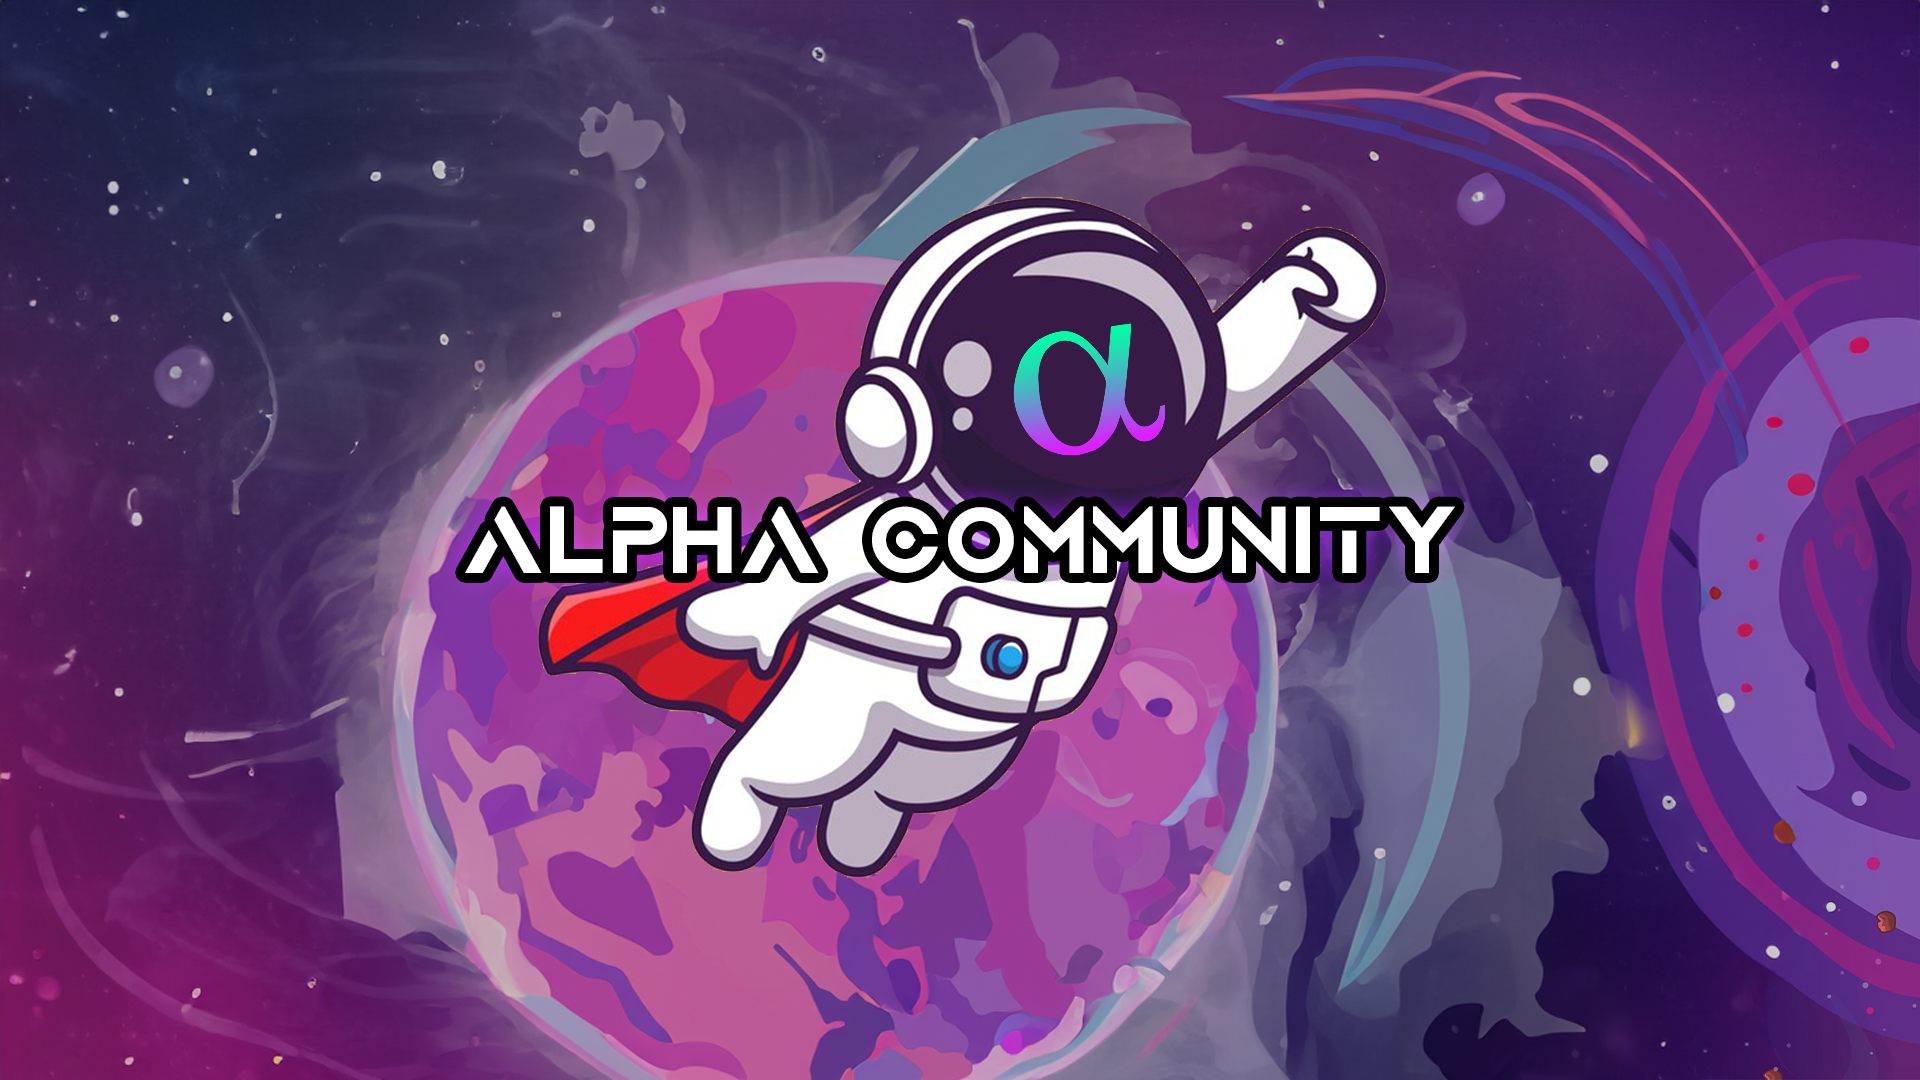
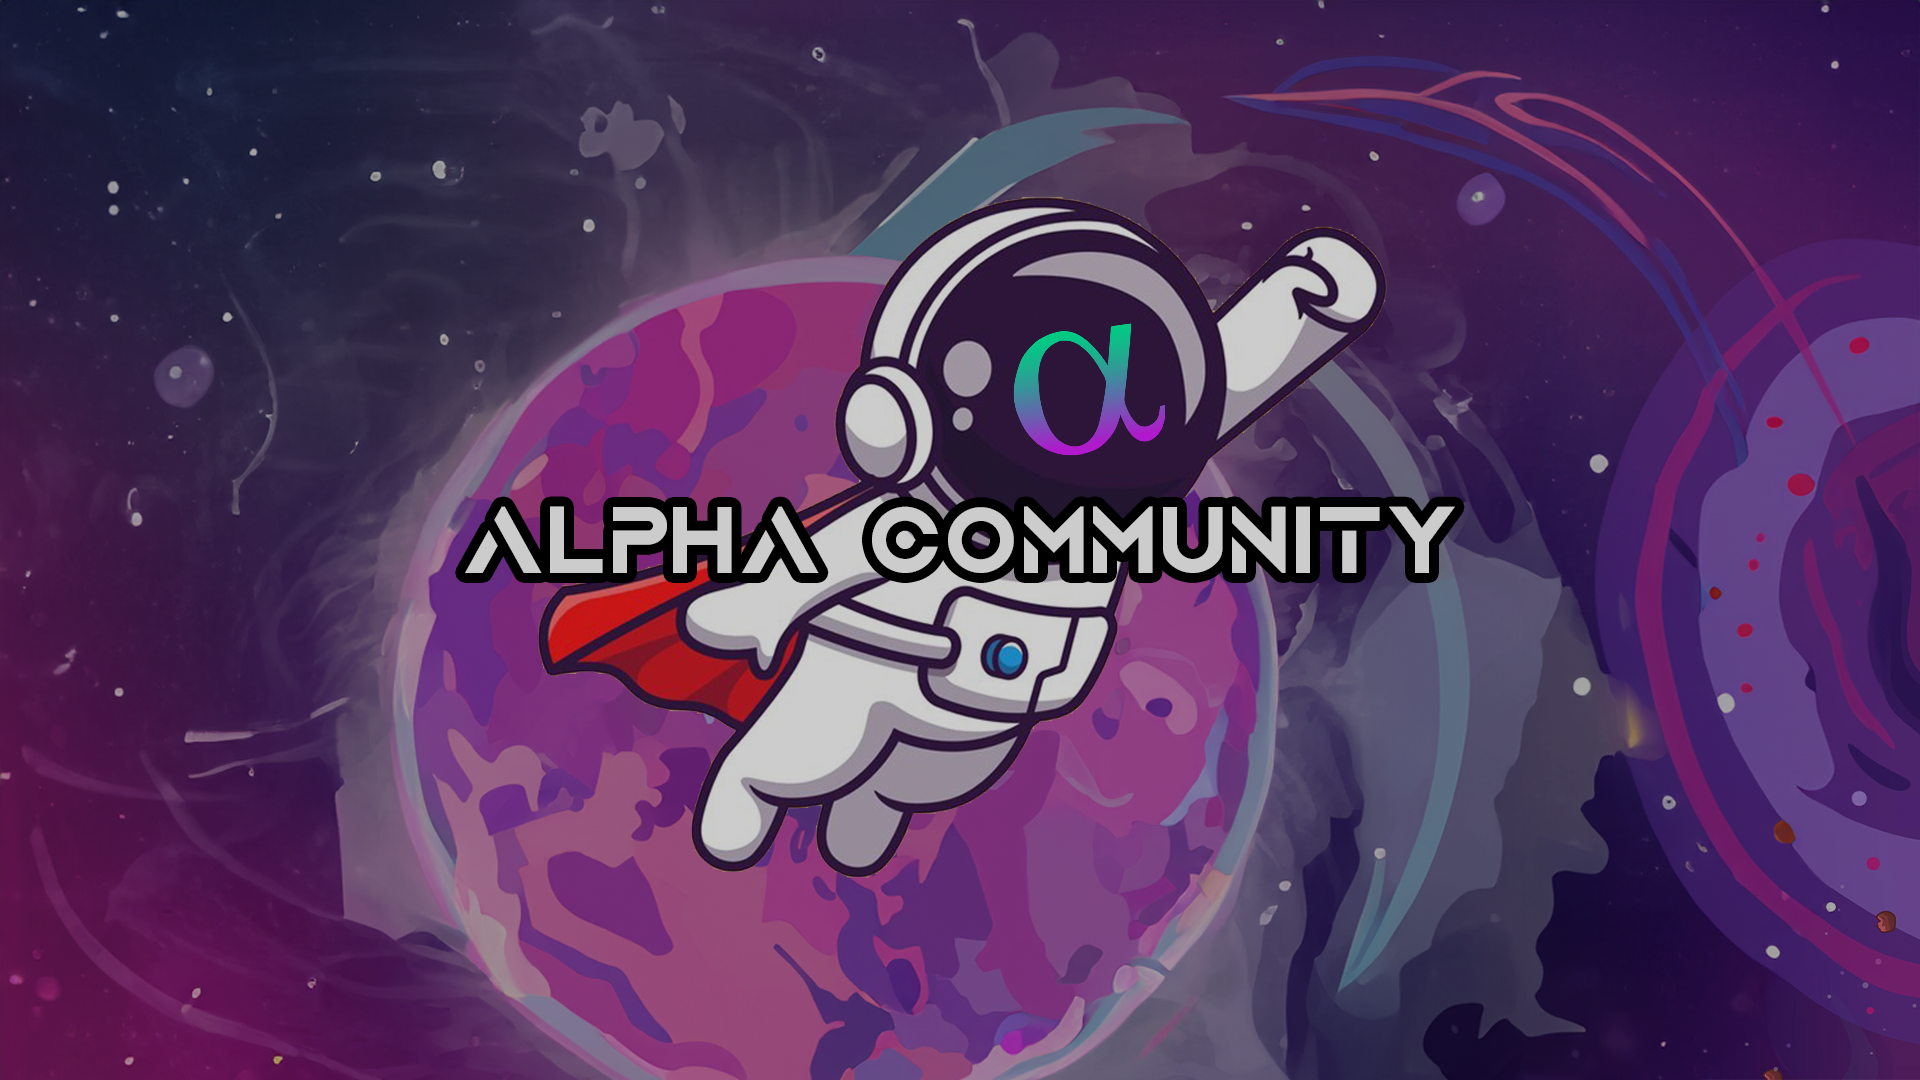
changed_

diff --git a/index.html b/index.html
@@ -9,7 +9,7 @@
         @import url('https://fonts.googleapis.com/css2?family=Poppins:wght@700&display=swap');
 
         body {
-            background-image: url('https://github.com/TimurOzer/TimurOzer.github.io/blob/main/images/AlphaWallpaper3.png?raw=true');
+            background-image: url('https://raw.githubusercontent.com/TimurOzer/TimurOzer.github.io/main/images/AlphaWallpaperNew.png');
             background-size: cover; /* Ekran boyutuna göre ölçekle */
             background-position: center; /* Resmi sayfa ortasında hizala */
             font-family: 'Poppins', sans-serif;
